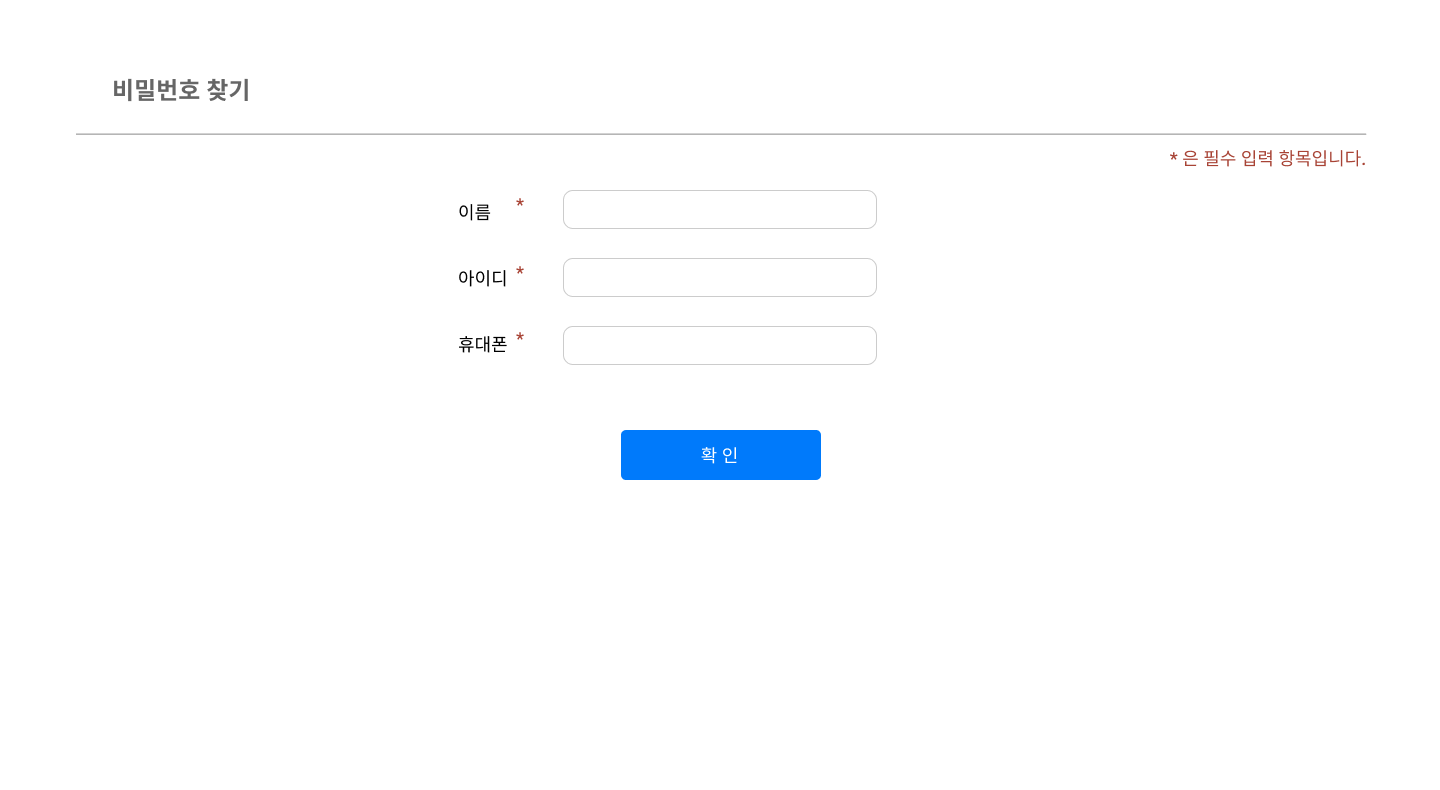
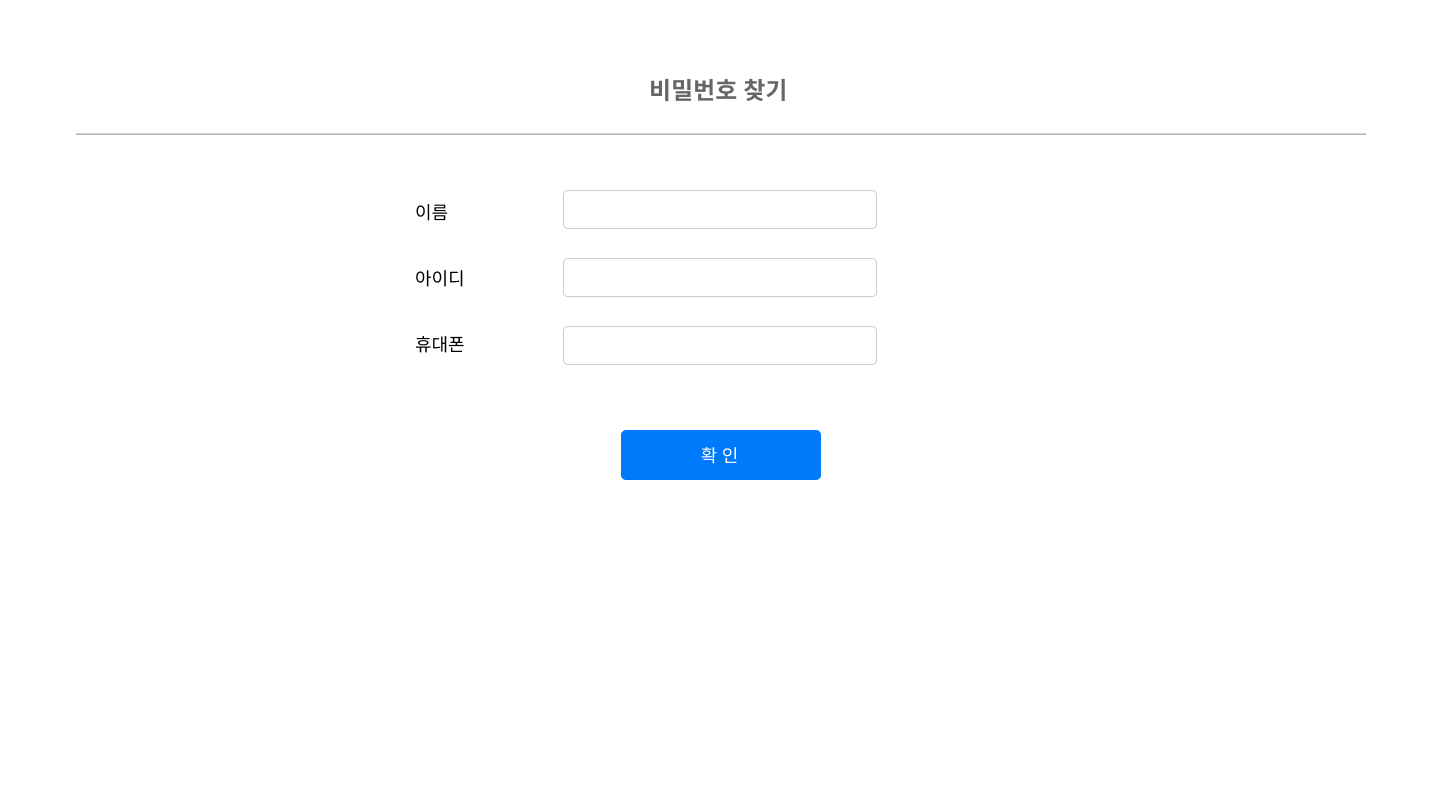
20210204_김성배
메인페이지에서 중식 제외 모두 재고소진 팝업창 출현하게 수정
비밀번호 찾기를 아이디찾기랑 비슷하게 수정

diff --git a/src/team/tjhis/gui/MainPage.java b/src/team/tjhis/gui/MainPage.java
@@ -70,7 +70,8 @@ public class MainPage extends JPanel {
 			@Override
 			public void actionPerformed(ActionEvent e) {
 				
-//				ChangePage.changePanel(mf, mp, new FastFoodPage(mf));
+				ChangePage.changePanel(mf, mp, new FastFoodPage(mf));
+				PopUpPage.returnPopUp(mf, "images/UnableToOrder.PNG");
 				
 			}
 			
@@ -82,6 +83,7 @@ public class MainPage extends JPanel {
 			public void actionPerformed(ActionEvent e) {
 				
 				ChangePage.changePanel(mf, mp, new JapaneseFoodPage(mf));
+				PopUpPage.returnPopUp(mf, "images/UnableToOrder.PNG");
 				
 			}
 			
@@ -93,6 +95,7 @@ public class MainPage extends JPanel {
 			public void actionPerformed(ActionEvent e) {
 				
 				ChangePage.changePanel(mf, mp, new KoreanFoodPage(mf));
+				PopUpPage.returnPopUp(mf, "images/UnableToOrder.PNG");
 				
 			}
 			

diff --git a/src/team/tjhis/gui/MainFrame.java b/src/team/tjhis/gui/MainFrame.java
@@ -19,10 +19,10 @@ public class MainFrame extends JFrame{
 
 		this.setTitle("저기요!");
 
+		header = new LogoutHeader(this);
 		footer = new Footer(this);
 		body = new MainPage(this);
 		this.add(body); // 첫 화면(메인 페이지)를 붙인다
-		header = new LogoutHeader(this);
 		
 //		new SignUpPage(this);
 //		new LoginPage(this);		
